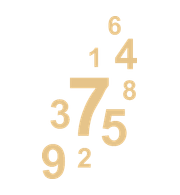
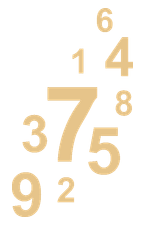
Kolo Karmy: przelicza pudelko numerologii z siatki wspolrzednych na grafice
Poprzednie proby (przesuniecie, margines) nie trafialy w rzeczywisty
ksztalt platka. Narysowana siatka wspolrzednych na samej grafice bazowej
pokazala prawdziwe granice (klepsydra "kiedy" u gory, pierscien Karmy
z prawej/na dole) — nowe pudelko [715,325,860,550] dopasowane do
najszerszego bezpiecznego miejsca, cyfry wyraznie wieksze i wysrodkowane,
zgodnie ze wzorem uzytkownika.

diff --git a/components/KoloKarmy.tsx b/components/KoloKarmy.tsx
@@ -101,9 +101,11 @@ const SATELITY_BAZA = [
 // przez <MoonStars> (osobny puls, patrz aktywny === "astrologia" niżej).
 const PIKTOGRAMY_PULSUJACE = [
   { id: "hiromancja", box: [340, 385, 490, 555] as const },
-  // Powiekszone (2026-09-26): nowa ikona ma 9 cyfr rozlozonych szerzej niz
-  // stara (4 cyfry) — mniejsze pudelko zostawialo duzo pustego miejsca.
-  { id: "numerologia", box: [700, 375, 880, 570] as const },
+  // Powiekszone i wyosiowane (2026-09-26): nowa ikona ma 9 cyfr rozlozonych
+  // szerzej niz stara (4 cyfry) — pudelko dopasowane do rzeczywistego
+  // ksztaltu platka numerologii (zmierzone siatka wspolrzednych na grafice),
+  // centrowane w najszerszym miejscu miedzy klepsydra "kiedy" a pierscieniem.
+  { id: "numerologia", box: [715, 325, 860, 550] as const },
 ];
 
 function pctX(v: number) { return `${(v / IMG_W) * 100}%`; }
